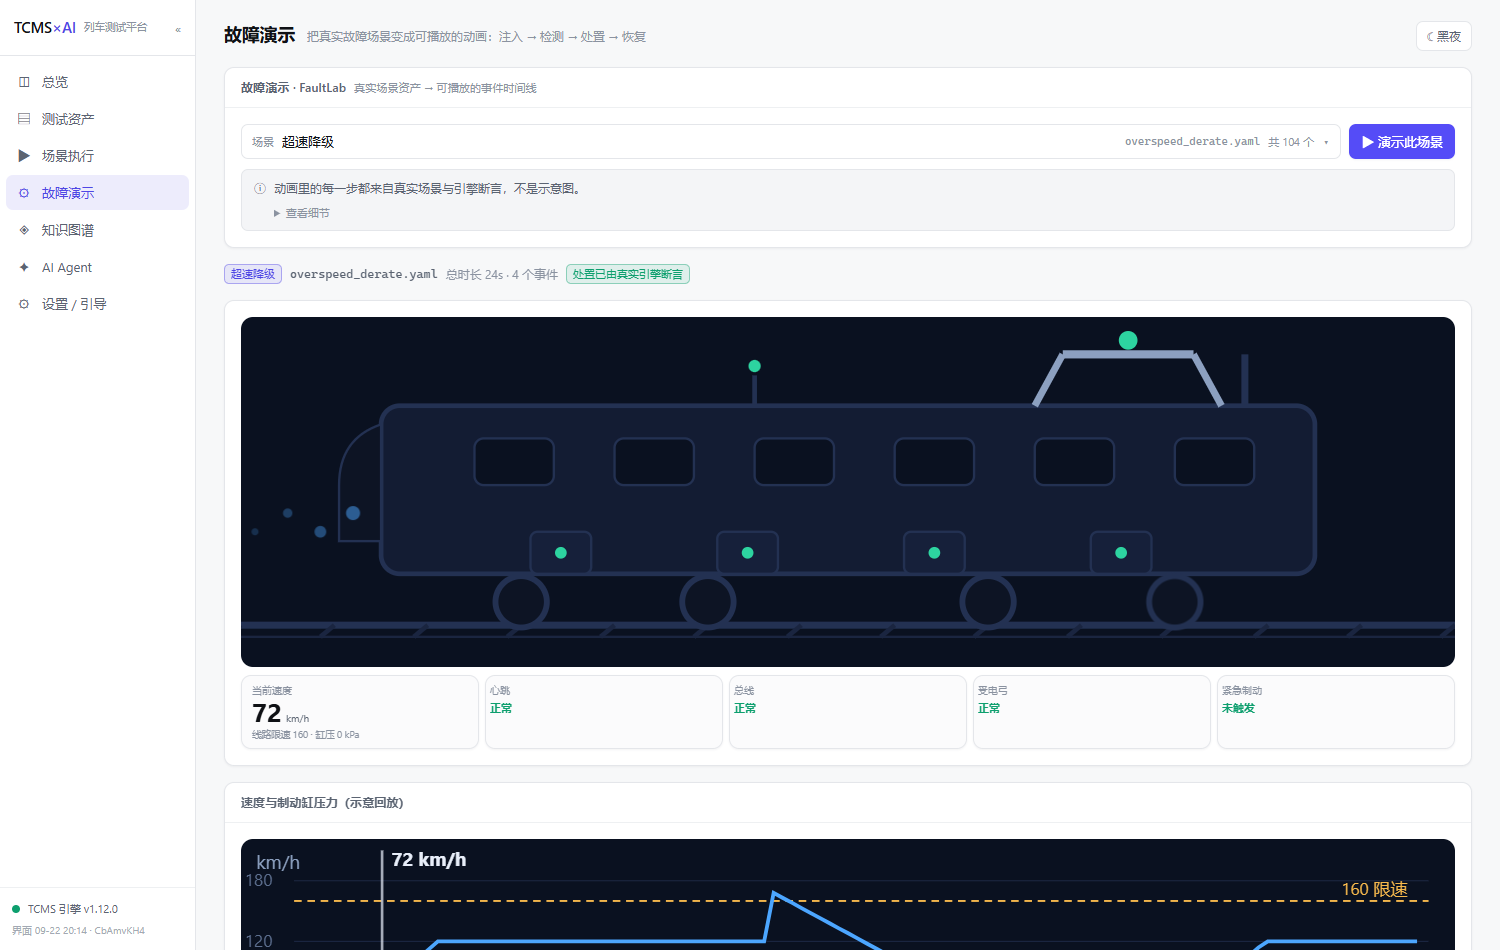
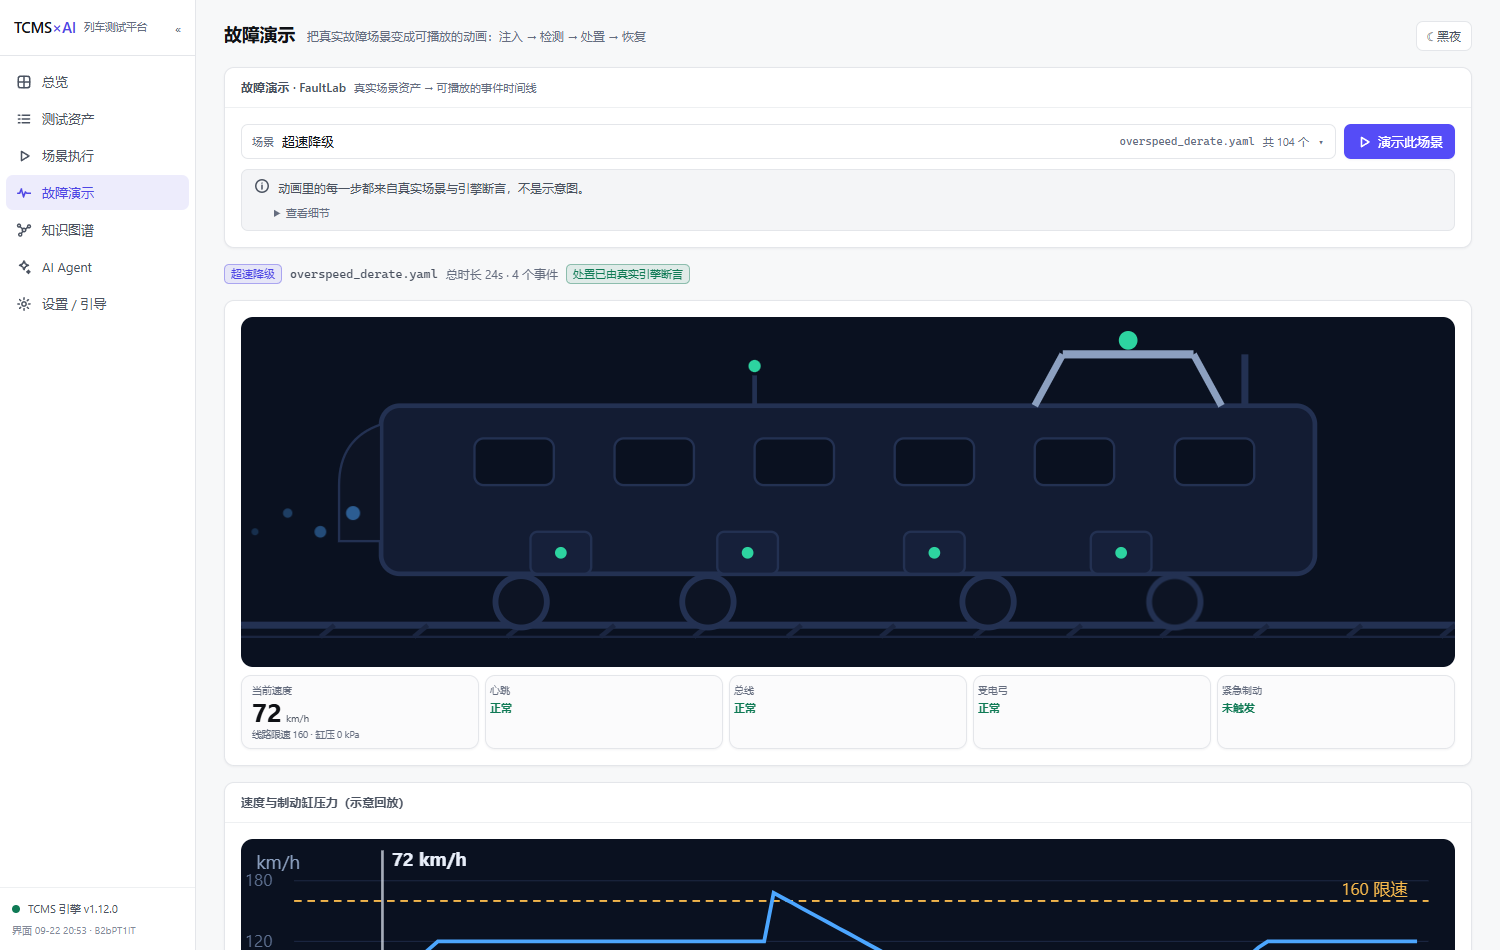
fix(graph): 骨架不再有孤立节点（3 个系统域曾是浮点）+ 截图脚本不再污染 workspace
## 一、"节点图显示不全"继续挖出第 4 个真缺陷

上一轮修了标签静默否决 / 报文跳转空图 / 空图白屏。这一轮按"接口给了什么 / 页面画了什么"
把**默认骨架**逐项对齐，抓到：**骨架里有 3 个节点度为 0**。

| 检查项 | 实测（修补前） |
|---|---|
| overview 节点 / 边 | 56 / 65 |
| `belongs_to` 指向的系统 | **10 个**（不是 13） |
| **度为 0 的节点** | **3 个**：`system:SYS-BATT` 电池储能 / `system:SYS-AUX` 辅助供电 / `system:SYS-LIGHT` 照明 |

它们在图上就是**几个没有任何连线的点**。用户不会读成"这三个域没有代表故障"，
只会读成"图谱坏了 / 显示不全"。而 `SYS-AUX` 恰恰是症状多跳诊断要走的域。

根因（`kb_overview` 的选点规则）：代表故障只按 `function.fault_keys` 取，
而**没有任何功能挂这三个域的故障** → 它们一个成员都拿不到。

修法（**最保守的一种**）：沿图里**既有的边**给零度节点各补一个**真实成员**，不发明任何关系。
补进来的都是真故障：`SYS-AUX ← fault:aux_24v_undervoltage`、`SYS-LIGHT ← fault:light_group_fault`、
`SYS-BATT ← fault:soc_low`。候选按全图度数排序、同分按 id 排序 —— 同一份资产每次结果完全一致。

修补后：**59 节点 / 69 边 / 孤立 0**，两次请求逐字节一致。

> 顺带纠正一个我自己的错误假设：我原以为要新增 `system → function` 关系才能"从系统走到功能"。
> 实测不必 —— `system ←belongs_to— fault —triggers→ function` 两跳已可达。
> 所以本次**没有新增任何关系语义**（这正是"最保守"的含义）。

## 二、新增门禁：骨架的结构不变量（4 个用例）

`packages/platform/tests/test_graph_overview.py`：

1. 不许有孤立节点（度为 0）—— 那会被读成"图谱显示不全/坏了"；
2. 每条边的两端必须在节点集里 —— 前端 2D/3D 都是 `if (!a || !b) return null`，
   悬空边会被**静默丢弃**，看起来同样像"显示不全"；
3. 13 个系统域 + 11 个功能一个都不能少（补成员是"加"，不是"换"）；
4. 连续两次请求结果完全一致（否则截图与断言会随机漂移）。

## 三、修掉一个我自己造成的环境破坏

`capture-doc-shots.mjs` 的输出目录写死为 `../docs`（相对**当前工作目录**）。
我从 `packages/platform` 跑了一次 → 凭空造出 `packages/docs/` →
而本仓是 uv workspace（`packages/*` 每个成员都必须有 `pyproject.toml`），
**一个目录就让整个工作区失效**（uv 直接报 `missing a pyproject.toml`，pytest/ruff 全跑不了）。
[…]

diff --git a/packages/platform/web/src/pages/GraphWorkspace.tsx b/packages/platform/web/src/pages/GraphWorkspace.tsx
@@ -1073,7 +1073,7 @@ const clamp = (v: number, lo: number, hi: number) => Math.max(lo, Math.min(hi, v
  *  · 检索出来的小子图（5–20 个节点）本身就是"答案集"，只标 12 个等于让用户猜其余的；
  *  · 大图（几百节点）12 个又太稀，看不出结构在哪。
  * 规则：≤20 个节点全标；否则取 22% 并在 [10, 20] 内夹住。
- * 56 节点的默认骨架视图算出正好 12——与原先看图定下的值一致，那个视图观感不变。 */
+ * 59 节点的默认骨架视图算出 13（2026-09-22 给孤立系统域补了真实成员，骨架 56 → 59）。 */
 const labelBudget = (n: number) => (n <= 20 ? n : clamp(Math.round(n * 0.22), 10, 20));
 
 /** 只服务"标签何时显示"的索引：度数排行 + 邻接表。

diff --git a/packages/platform/tests/test_graph_overview.py b/packages/platform/tests/test_graph_overview.py
@@ -1,0 +1,97 @@
+"""默认骨架图谱的**结构不变量**：不许出现"孤立节点"，边不许指向不存在的节点。
+
+## 为什么需要这个文件（真实缺陷，2026-09-22）
+
+进图谱页第一眼看到的是 `/api/kb/overview` 的骨架。实测发现里面**有 3 个节点度为 0**
+（`system:SYS-AUX` 辅助供电 / `system:SYS-LIGHT` 照明 / `system:SYS-BATT` 电池储能）：
+它们在图上是**没有任何连线的孤零零的点**。用户的第一反应不是"这三个域没有代表故障"，
+而是"图谱坏了吧 / 怎么显示不全"。
+
+成因（`kb_overview` 的选点规则）：代表故障只按 `function.fault_keys` 取，
+而**没有任何功能挂这三个域的故障** → 它们一个成员都拿不到。
+
+修法是沿图里**既有的边**给零度节点补一个真实成员（不发明关系）。本文件把结果钉住：
+
+- 骨架里每个节点至少有一条边（没有孤立浮点）；
+- 每条边的两端都出现在 nodes 里 —— 前端 2D/3D 都是 `if (!a || !b) return null`，
+  边指向不存在的节点会被**静默丢弃**，看起来同样像"显示不全"；
+- 13 个系统域与 11 个功能一个都不能少（补成员是"加"，不是"换"）；
+- 结果**可复现**：同一份资产连续两次请求必须完全一致（否则截图/断言会随机漂移）。
+"""
+
+from __future__ import annotations
+
+from pathlib import Path
+
+import pytest
+
+UPSTREAM = Path(__file__).resolve().parents[2] / "engine"
+needs_engine = pytest.mark.skipif(not UPSTREAM.is_dir(), reason=f"上游不存在: {UPSTREAM}")
+
+
+@pytest.fixture(scope="module")
+def overview() -> dict:
+    if not UPSTREAM.is_dir():
+        pytest.skip(f"上游不存在: {UPSTREAM}")
+    from fastapi.testclient import TestClient
+
+    from tcms_ai_platform.server.app import create_app
+
+    client = TestClient(create_app(upstream=UPSTREAM))
+    r = client.get("/api/kb/overview?limit=3")
+    assert r.status_code == 200, r.text
+    return r.json()
+
+
+def _degrees(ov: dict) -> dict[str, int]:
+    deg: dict[str, int] = {}
+    for e in ov["edges"]:
+        deg[e["src"]] = deg.get(e["src"], 0) + 1
+        deg[e["dst"]] = deg.get(e["dst"], 0) + 1
+    return deg
+
+
+@needs_engine
+def test_no_isolated_nodes_in_skeleton(overview: dict) -> None:
+    """骨架里不许有没有连线的点 —— 那会被读成"图谱显示不全/坏了"。"""
+    deg = _degrees(overview)
+    isolated = [n["id"] for n in overview["nodes"] if deg.get(n["id"], 0) == 0]
+    assert not isolated, (
+        f"骨架出现孤立节点（度为 0，图上是一个没有连线的浮点）：{isolated}。"
+        "修法：在 kb_overview 里沿图既有边给它补一个真实成员，不要靠前端兜底。"
+    )
+
+
+@needs_engine
+def test_every_edge_endpoint_is_present(overview: dict) -> None:
+    """边两端必须在节点集里：前端的 2D/3D 画布都会静默丢弃"端点缺失"的边。"""
+    ids = {n["id"] for n in overview["nodes"]}
+    dangling = [e for e in overview["edges"] if e["src"] not in ids or e["dst"] not in ids]
+    assert not dangling, f"有 {len(dangling)} 条边的端点不在节点集里（前端会静默丢边）：{dangling[:3]}"
+
+
+@needs_engine
+def test_all_systems_and_functions_are_kept(overview: dict) -> None:
+    """13 个系统域 + 11 个功能一个都不能少：补成员是"加节点"，不是"换节点"。"""
+    kinds: dict[str, int] = {}
+    for n in overview["nodes"]:
+        kinds[n["kind"]] = kinds.get(n["kind"], 0) + 1
+    assert kinds.get("system", 0) >= 13, f"系统域被裁掉了：只有 {kinds.get('system', 0)} 个"
+    assert kinds.get("function", 0) >= 11, f"功能被裁掉了：只有 {kinds.get('function', 0)} 个"
+    assert kinds.get("fault", 0) >= 11, "代表故障不该少于功能数（每个功能至少一个）"
+
+
+@needs_engine
+def test_overview_is_deterministic() -> None:
+    """同一份资产连续两次请求必须完全一致：否则截图与断言会随机漂移。"""
+    if not UPSTREAM.is_dir():
+        pytest.skip(f"上游不存在: {UPSTREAM}")
+    from fastapi.testclient import TestClient
+
+    from tcms_ai_platform.server.app import create_app
+
+    client = TestClient(create_app(upstream=UPSTREAM))
+    a = client.get("/api/kb/overview?limit=3").json()
+    b = client.get("/api/kb/overview?limit=3").json()
+    assert [n["id"] for n in a["nodes"]] == [n["id"] for n in b["nodes"]]
+    assert a["edges"] == b["edges"]

diff --git a/packages/platform/src/tcms_ai_platform/server/app.py b/packages/platform/src/tcms_ai_platform/server/app.py
@@ -722,6 +722,7 @@ def create_app(asset_model: AssetModel | None = None, upstream: str | Path | Non
 
         前端进入图谱页（未搜索/未选种子）时直接展示本视图：
         节点 = system:SYS-* 全部 + function:F-* 全部 + 各功能 fault_keys 前 limit 个真实故障；
+        并给"零成员"的系统域沿既有边补一个真实成员 —— **骨架里不允许出现孤立点**（没有连线的点会被读成"图谱坏了"）。
         边 = 这些节点之间既有的 belongs_to / triggers / covers / injects 等真实关系。
         计数全部派生自 enrich 后的图与资产模型（机器自证）。
         """
@@ -734,6 +735,37 @@ def create_app(asset_model: AssetModel | None = None, upstream: str | Path | Non
                 nid = f"fault:{fk}"
                 if nid in graph.nodes:
                     keep.add(nid)
+
+        # 补齐「孤立系统域」：代表故障只按 function.fault_keys 取，于是**没有任何功能挂其故障的系统域**
+        # （辅助供电 SYS-AUX / 照明 SYS-LIGHT / 电池储能 SYS-BATT）拿不到成员，在骨架里变成
+        # **没有连线的浮点** —— 用户看到几个孤零零的点，只会读成"图谱显示不全/坏了"（实测 3/56）。
+        # 这里给度数为 0 的节点各补一个**真实成员**：只沿图里既有的边找，不发明任何关系。
+        deg_all: dict[str, int] = {}
+        deg_kept: dict[str, int] = {}
+        for e in graph.edges:
+            deg_all[e.src] = deg_all.get(e.src, 0) + 1
+            deg_all[e.dst] = deg_all.get(e.dst, 0) + 1
+            if e.src in keep and e.dst in keep:
+                deg_kept[e.src] = deg_kept.get(e.src, 0) + 1
+                deg_kept[e.dst] = deg_kept.get(e.dst, 0) + 1
+        backfill: list[str] = []
+        for nid in sorted(n for n in keep if deg_kept.get(n, 0) == 0):
+            cands: list[str] = []
+            for e in graph.edges:
+                if e.src == nid:
+                    other = e.dst
+                elif e.dst == nid:
+                    other = e.src
+                else:
+                    continue
+                if other in graph.nodes and other not in keep and other not in backfill:
+                    cands.append(other)
+            if not cands:
+                continue
+            # 取全图度数最高者（信息量最大）；同分按 id 排序 —— 同一份资产每次得到的骨架完全一致。
+            cands.sort(key=lambda c: (-deg_all.get(c, 0), c))
+            backfill.append(cands[0])
+        keep.update(backfill)
         nodes = [
             {"id": n.id, "kind": n.kind, "label": n.label}
             for n in graph.nodes.values()

diff --git a/packages/platform/README.md b/packages/platform/README.md
@@ -6,7 +6,7 @@
 [![Python](https://img.shields.io/badge/Python-3.11+-2dd4a0)](#快速开始)
 [![FastAPI](https://img.shields.io/badge/FastAPI-Web_UI-4ca6ff)](#)
 [![React](https://img.shields.io/badge/React-18+-8b7cf6)](#)
-[![pytest](https://img.shields.io/badge/pytest-370%20passed-2dd4a0)](#测试--门禁)
+[![pytest](https://img.shields.io/badge/pytest-374%20passed-2dd4a0)](#测试--门禁)
 [![CI](https://github.com/zych2002918/tcms-ai-platform/actions/workflows/ci.yml/badge.svg)](https://github.com/zych2002918/tcms-ai-platform/actions)
 [![license](https://img.shields.io/badge/license-MIT-8ca0c0)](#license)
 
@@ -128,14 +128,14 @@ bash start.sh
 
 | 门禁 | 结果 | 说明 |
 |---|---|---|
-| `pytest -q` | **370 passed + 1 skipped** | 检索 28 golden、诊断 8 golden、30 条对抗集、图谱通道契约、上游路径护栏、多轮/澄清/MCP/function-calling 契约、**设计 token 对比度门禁**… |
+| `pytest -q` | **374 passed + 1 skipped** | 检索 28 golden、诊断 8 golden、30 条对抗集、图谱通道契约、上游路径护栏、多轮/澄清/MCP/function-calling 契约、**设计 token 对比度门禁**、**图谱骨架不变量（无孤立点 / 无悬空边 / 可复现）**… |
 | `ruff check src tests` | clean | |
 | `pnpm vitest run` | 25/25 | 播放器状态机 / 3D 布局 / 浮层几何 / 模型选择 纯逻辑 |
 | `node e2e/graph-interact.mjs` | 5/5 | 图谱单击详情/双击跳转/返回/3D 交互（真浏览器） |
 | GitHub Actions | ✅ 绿 | push/PR：pytest+ruff → vitest（monorepo 内直接使用 packages/engine） |
 
 ```bash
-python -m pytest tests -q                 # 370 passed + 1 skipped
+python -m pytest tests -q                 # 374 passed + 1 skipped
 python -m ruff check src tests            # All checks passed
 cd web && pnpm test                       # vitest 25/25
 ```

diff --git a/README.md b/README.md
@@ -6,7 +6,7 @@
 
 [![CI](https://github.com/zych2002918/tcms-agent/actions/workflows/ci.yml/badge.svg)](https://github.com/zych2002918/tcms-agent/actions/workflows/ci.yml)
 [![Python](https://img.shields.io/badge/Python-3.11+-2dd4a0)](#快速开始)
-[![tests](https://img.shields.io/badge/tests-1712%20passed-2dd4a0)](#测试与门禁)
+[![tests](https://img.shields.io/badge/tests-1716%20passed-2dd4a0)](#测试与门禁)
 [![License](https://img.shields.io/badge/license-MIT-8ca0c0)](#license)
 
 ![平台总览：真实资产规模、三个入口与列车视角的被测功能](packages/platform/docs/dashboard-preview.png)
@@ -177,10 +177,10 @@ uv run python scripts/build_release.py --no-uv    # 最小包（不含 uv）
 | 成员 | 命令（成员目录内） | 门禁 |
 |---|---|---|
 | engine | `pytest tests -q` | 覆盖率 `fail_under=97`（960 collected） |
-| platform | `pytest -q` | ruff + pytest + vitest（370 passed + 1 skipped） |
+| platform | `pytest -q` | ruff + pytest + vitest（374 passed + 1 skipped） |
 | testgen | `pytest tests --cov=tcms_ai_testgen` | 覆盖率 `fail_under=90`（170 passed） |
 | **agent** | `pytest -q` | 含**评测回归门禁**：规则臂 ≥10/11 且零幻觉（192 passed + 2 skipped） |
-| 全仓 | `uv run pytest`（仓库根） | 一把梭：**1712 passed + 4 skipped** |
+| 全仓 | `uv run pytest`（仓库根） | 一把梭：**1716 passed + 4 skipped** |
 
 > 4 条 skip 全部是**条件性**的：真语义向量通道 ×2、真实 CAN 硬件 ×1、平台语义通道 ×1。
 > 根 `conftest.py` 有一道护栏：monorepo 下找不到上游引擎时**大声中止**，

diff --git a/packages/platform/docs/PROJECT_ARC.md b/packages/platform/docs/PROJECT_ARC.md
@@ -118,7 +118,7 @@
 | 向量文档 | 基础 508；服务态 644 | 资产 + 领域(离线 HashedEmbedder) + 12 症状文档 |
 | 症状资产（无码） | 12 | symptoms.yaml（hints 全锚真实故障键/13 系统域；annotation real 7/mixed 5） |
 | 因果边（诊断） | 54（indicates 41 / causes 13） | causal_edges.yaml（real_mechanism 41 / derived 13，逐条 basis+note） |
-| 图谱默认骨架（overview） | 56 节点 / 65 边 | GET /api/kb/overview：13 system + 11 function + 每功能代表故障 |
+| 图谱默认骨架（overview） | 59 节点 / 69 边 | GET /api/kb/overview：13 system + 11 function + 每功能代表故障；**2026-09-22 起**再给"零成员"的系统域（辅助供电/照明/电池储能）沿既有边补一个真实成员——骨架里不允许出现没有任何连线的孤立点（旧口径 56 节点/65 边见 CHANGELOG/ACCEPTANCE 等历史记录） |
 | 场景中文名 / desc | 104 name 唯一；44 个 wave_* 模板名已改短并补 desc | scenarios/*.yaml + Scenarios/Agent 结果标题映射 |
 | Agent 内置任务 | 8 | 真实故障锚定防漂移（自由目标规则 + RAG 澄清，见 freeform/advisor） |
 

diff --git a/packages/platform/e2e/README.md b/packages/platform/e2e/README.md
@@ -1,7 +1,7 @@
 # e2e（浏览器主流程走查）
 
 用真实 chromium（playwright-core，缓存浏览器）对主流程做机器断言：
-1. **图谱默认骨架**：进 `/graph` 不搜索即加载 overview（56 节点 Tag 可见）；
+1. **图谱默认骨架**：进 `/graph` 不搜索即加载 overview（59 节点 Tag 可见，且**不含任何没有连线的孤立点**）；
 2. **图谱 3D**：切 3D 视图画布渲染正常、适配/停转控件可用；
 3. **FaultLab**：URL 直达 `?scenario=...` 自动播放且出现故障注入/高亮；
 4. **Agent 症状诊断卡**：输入“仪表盘闪烁但无故障码”→ 出现症状资产与供电域候选。
